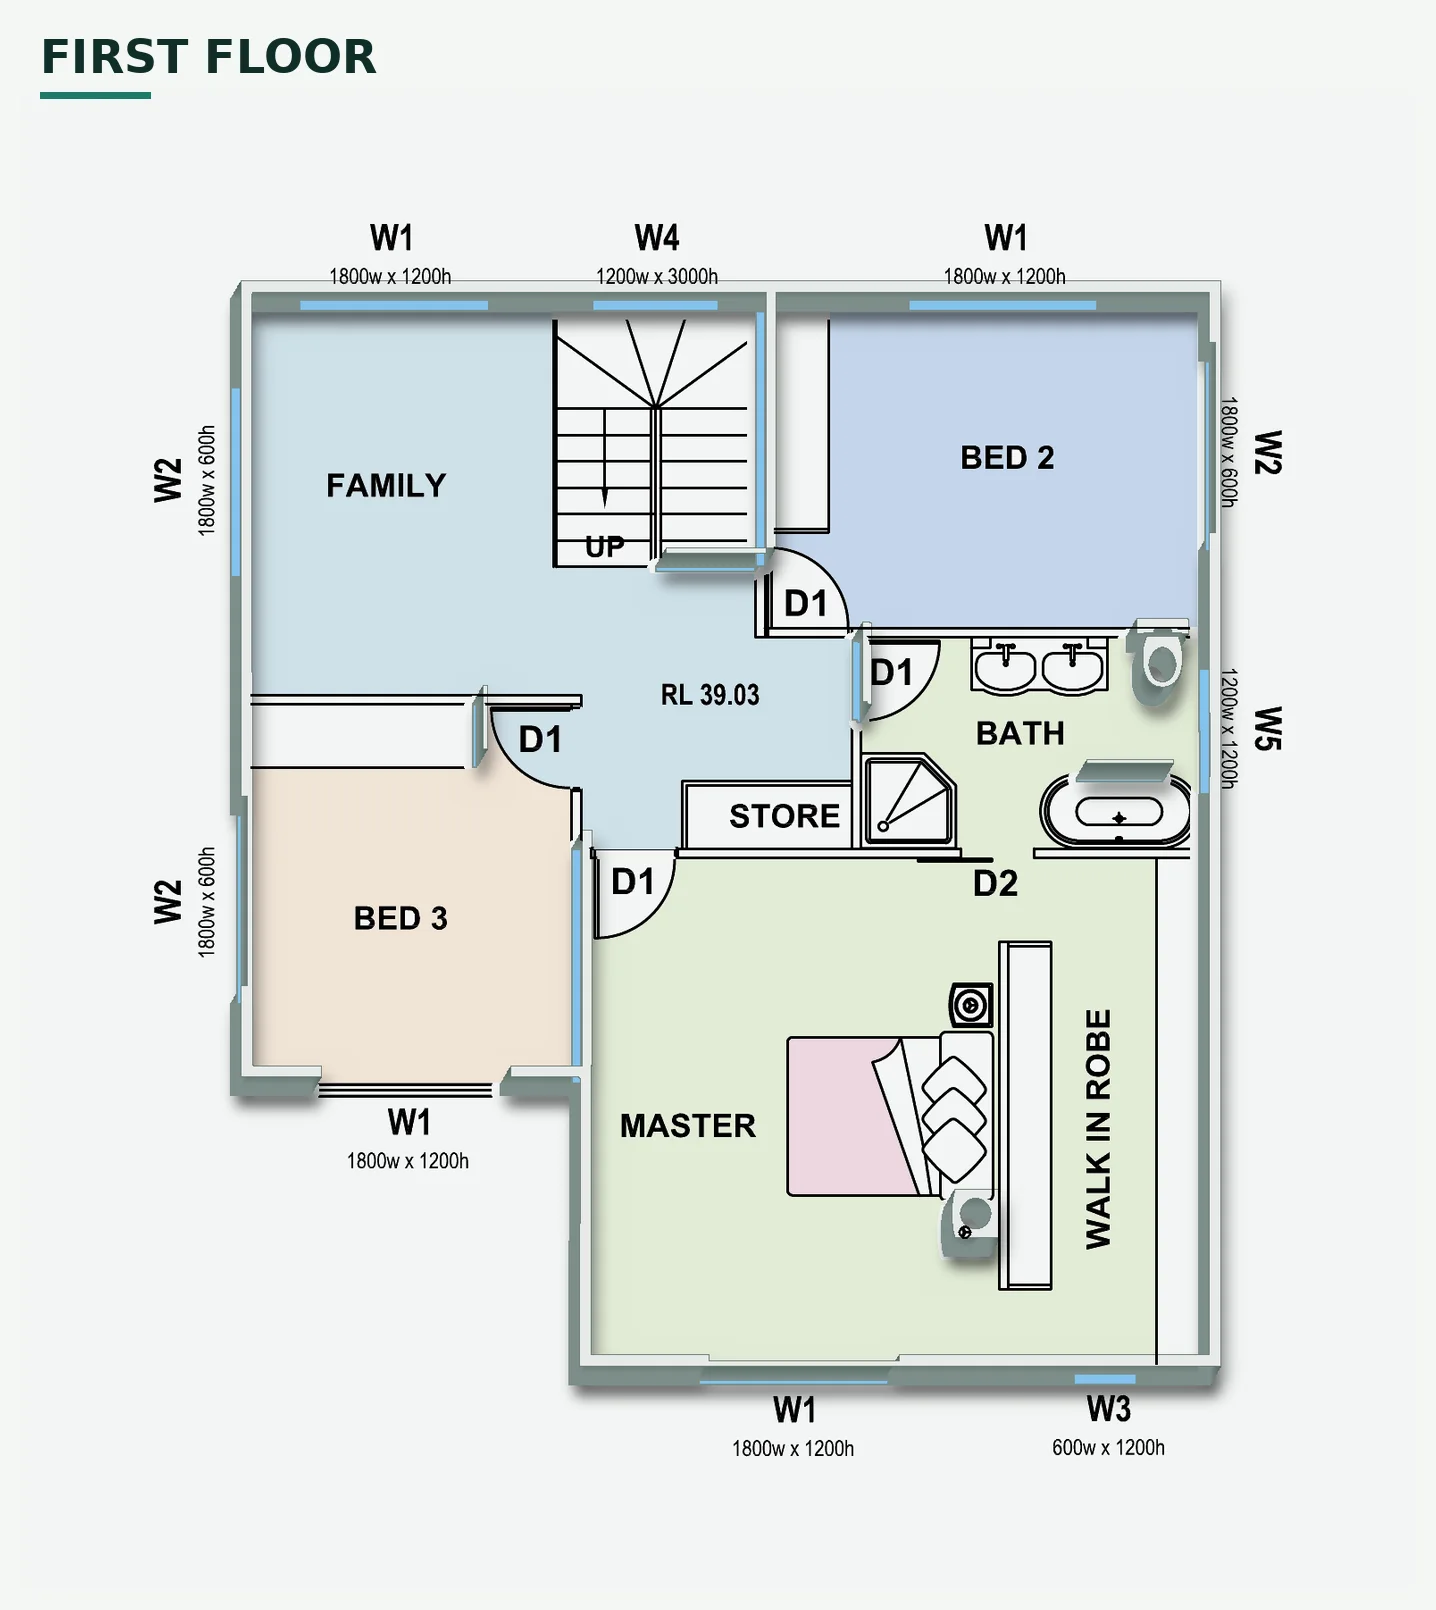
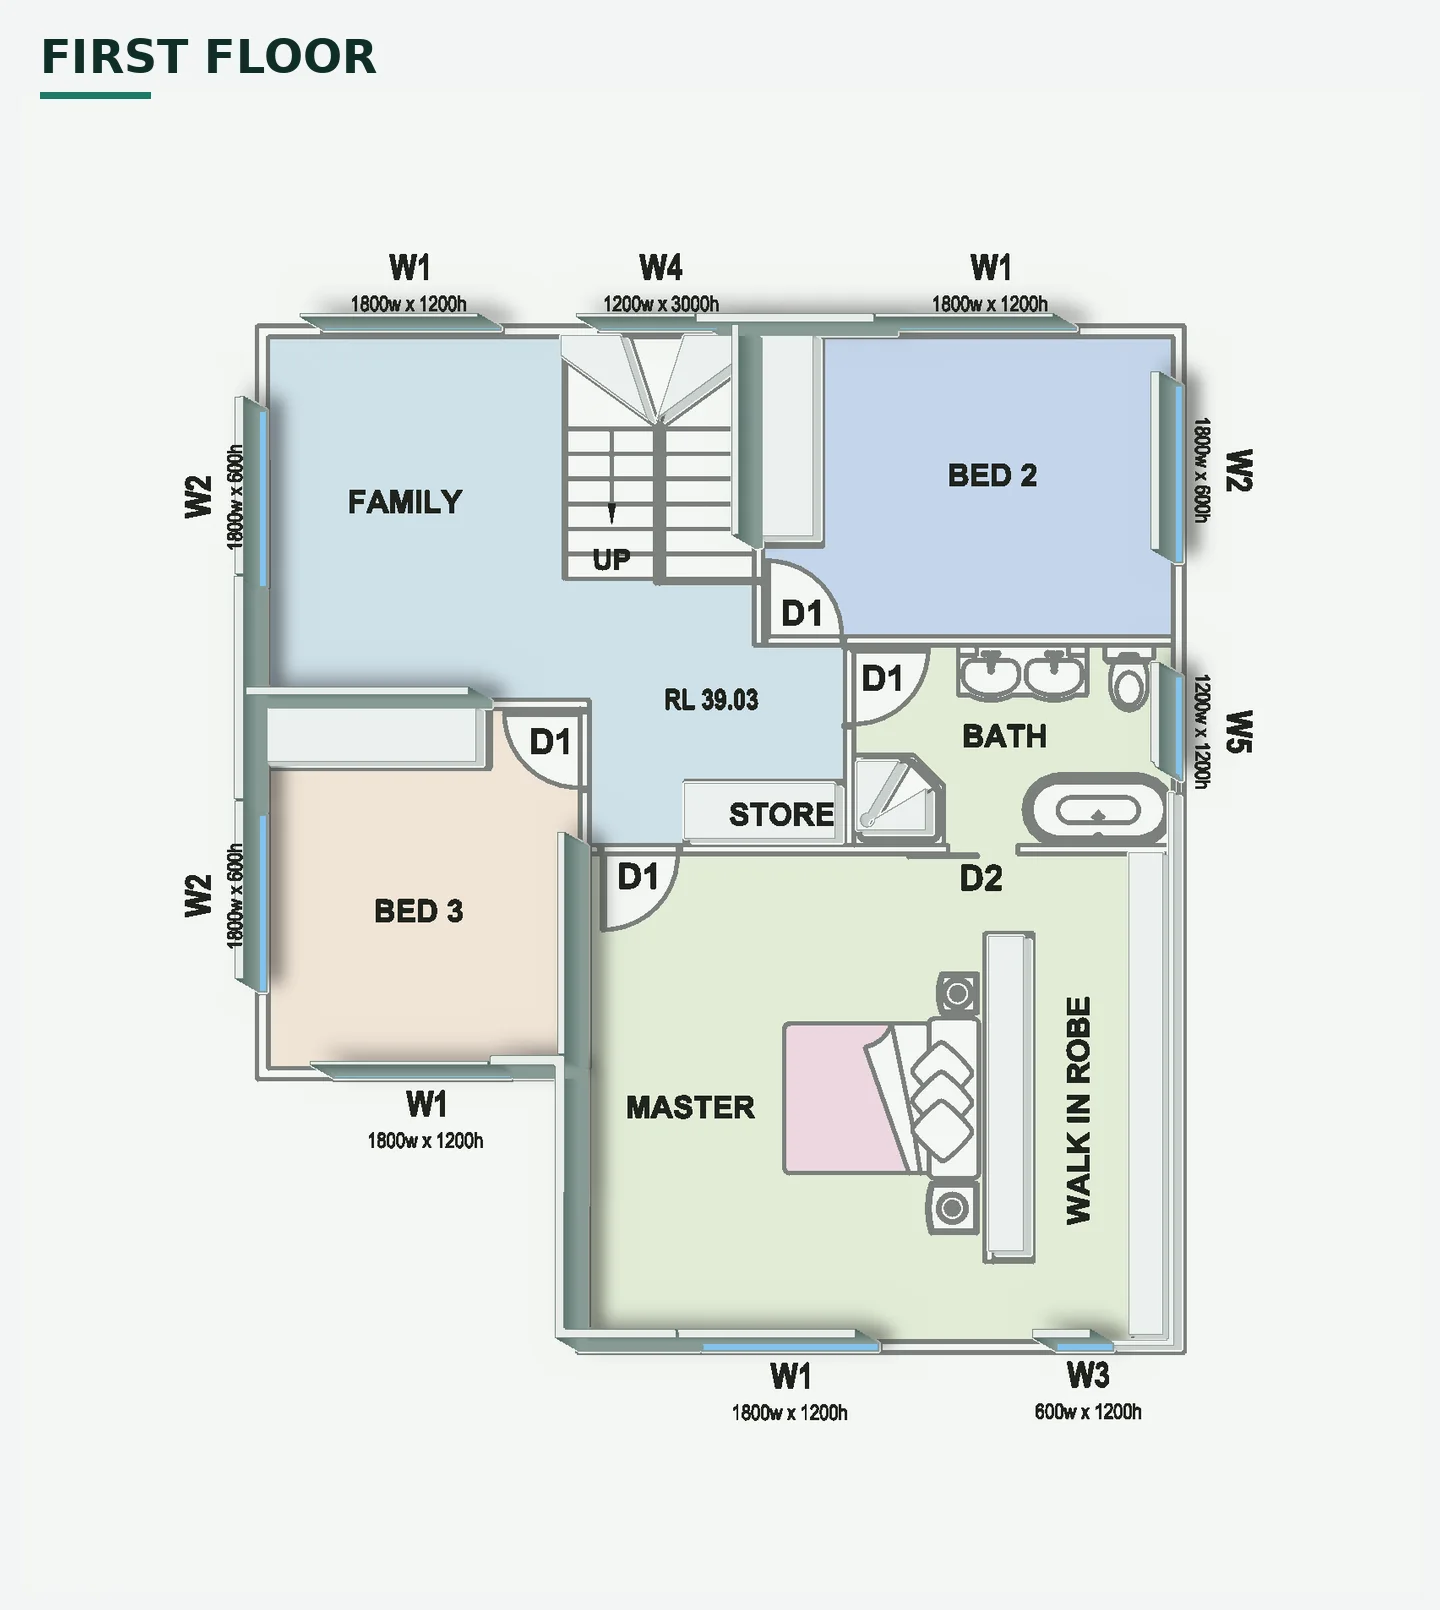
Ermington plans: vector-based 3D (all walls, windows, joinery and fixtures)
Claude-Session: https://claude.ai/code/session_015Zeghi8Wpnz2HogmioLoj9

Changed region(s): [[0.0919, 0.1242, 0.8886, 0.9006], [0.6435, 0.2795, 0.7354, 0.3106], [0.2451, 0.559, 0.337, 0.5901]]

diff --git a/portfolio/ermington-second-storey-addition.html b/portfolio/ermington-second-storey-addition.html
@@ -47,7 +47,7 @@
 <section class="band band-white">
   <div class="wrap">
     <p class="crumbs"><a href="/portfolio.html">&larr; All projects</a></p>
-    <ul class="gallery plans"><li><button type="button" class="shot" data-full="/images/ermington-second-storey-addition-01.webp" data-alt="Floor plan 1 of 2: second-storey addition, Ermington"><img src="/images/ermington-second-storey-addition-01.webp" alt="Floor plan 1 of 2: second-storey addition, Ermington" loading="eager" width="1539" height="1215"></button></li><li><button type="button" class="shot" data-full="/images/ermington-second-storey-addition-02.webp" data-alt="Floor plan 2 of 2: second-storey addition, Ermington"><img src="/images/ermington-second-storey-addition-02.webp" alt="Floor plan 2 of 2: second-storey addition, Ermington" loading="eager" width="1436" height="1610"></button></li></ul>
+    <ul class="gallery plans"><li><button type="button" class="shot" data-full="/images/ermington-second-storey-addition-01.webp" data-alt="Floor plan 1 of 2: second-storey addition, Ermington"><img src="/images/ermington-second-storey-addition-01.webp" alt="Floor plan 1 of 2: second-storey addition, Ermington" loading="eager" width="1540" height="1230"></button></li><li><button type="button" class="shot" data-full="/images/ermington-second-storey-addition-02.webp" data-alt="Floor plan 2 of 2: second-storey addition, Ermington"><img src="/images/ermington-second-storey-addition-02.webp" alt="Floor plan 2 of 2: second-storey addition, Ermington" loading="eager" width="1440" height="1610"></button></li></ul>
     <dl class="facts"><div><dt>Suburb</dt><dd>Ermington</dd></div><div><dt>Project</dt><dd>Second-storey addition</dd></div><div><dt>Images</dt><dd>2 floor plans</dd></div></dl>
   </div>
 </section>
